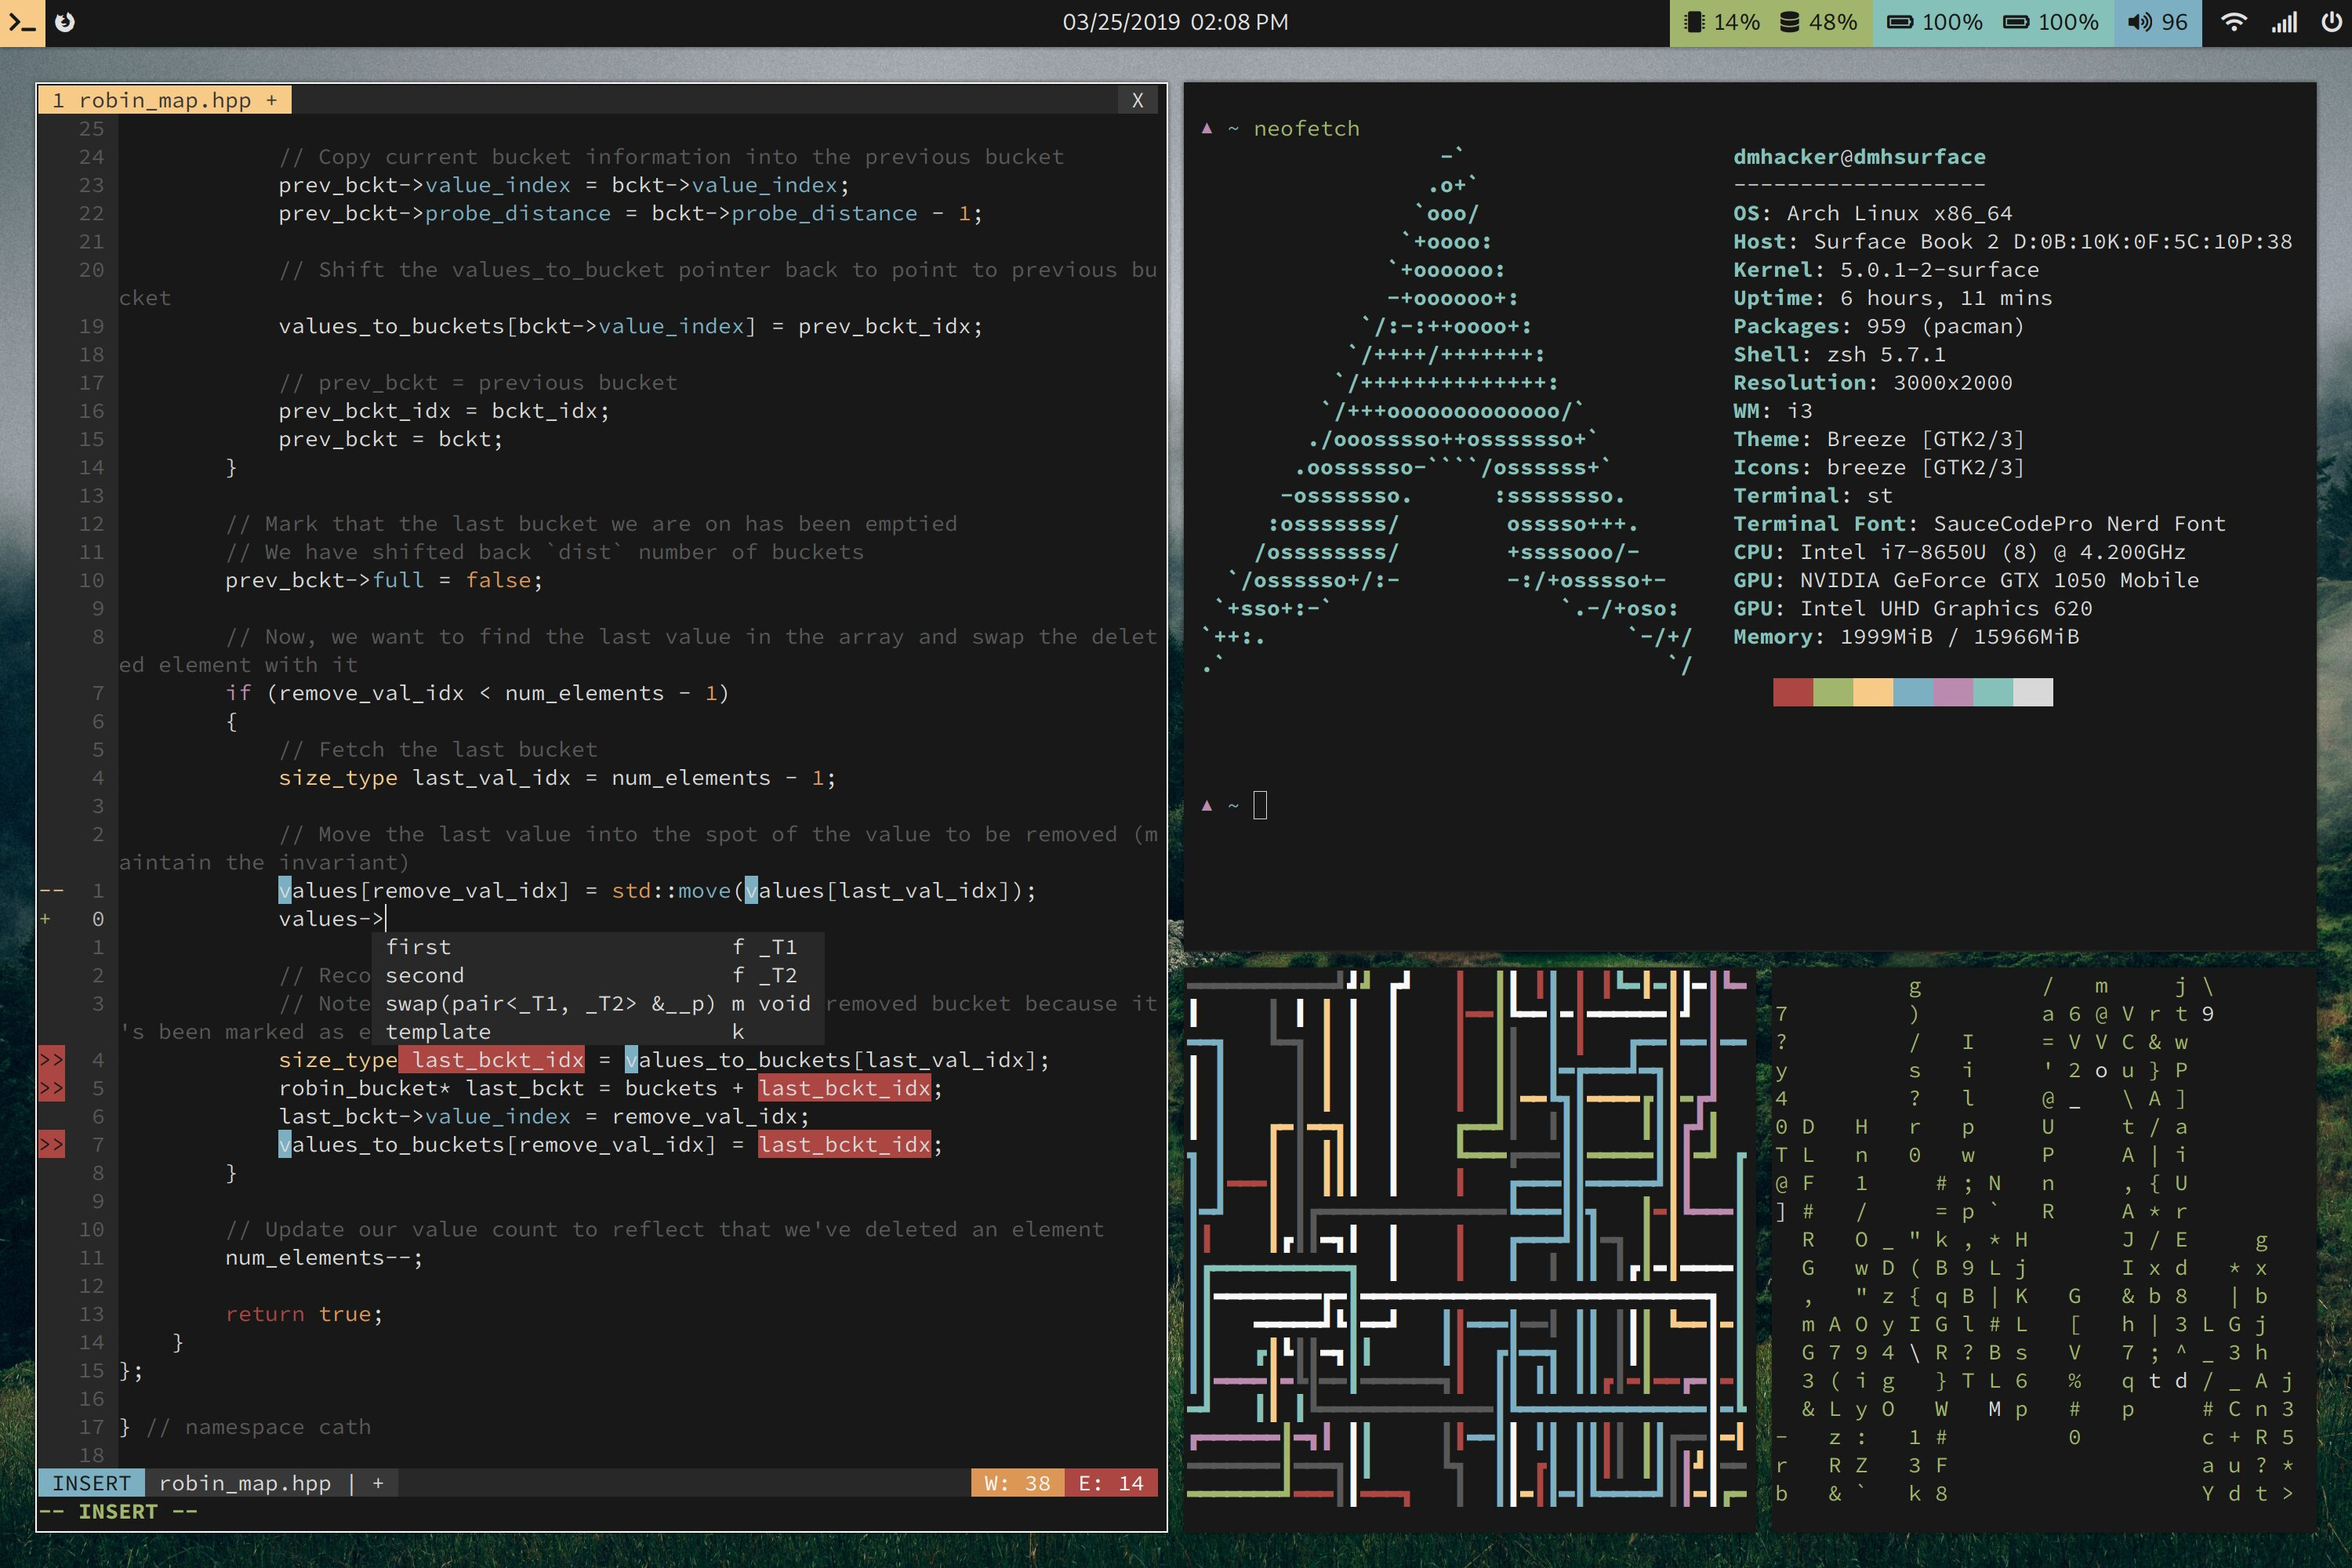
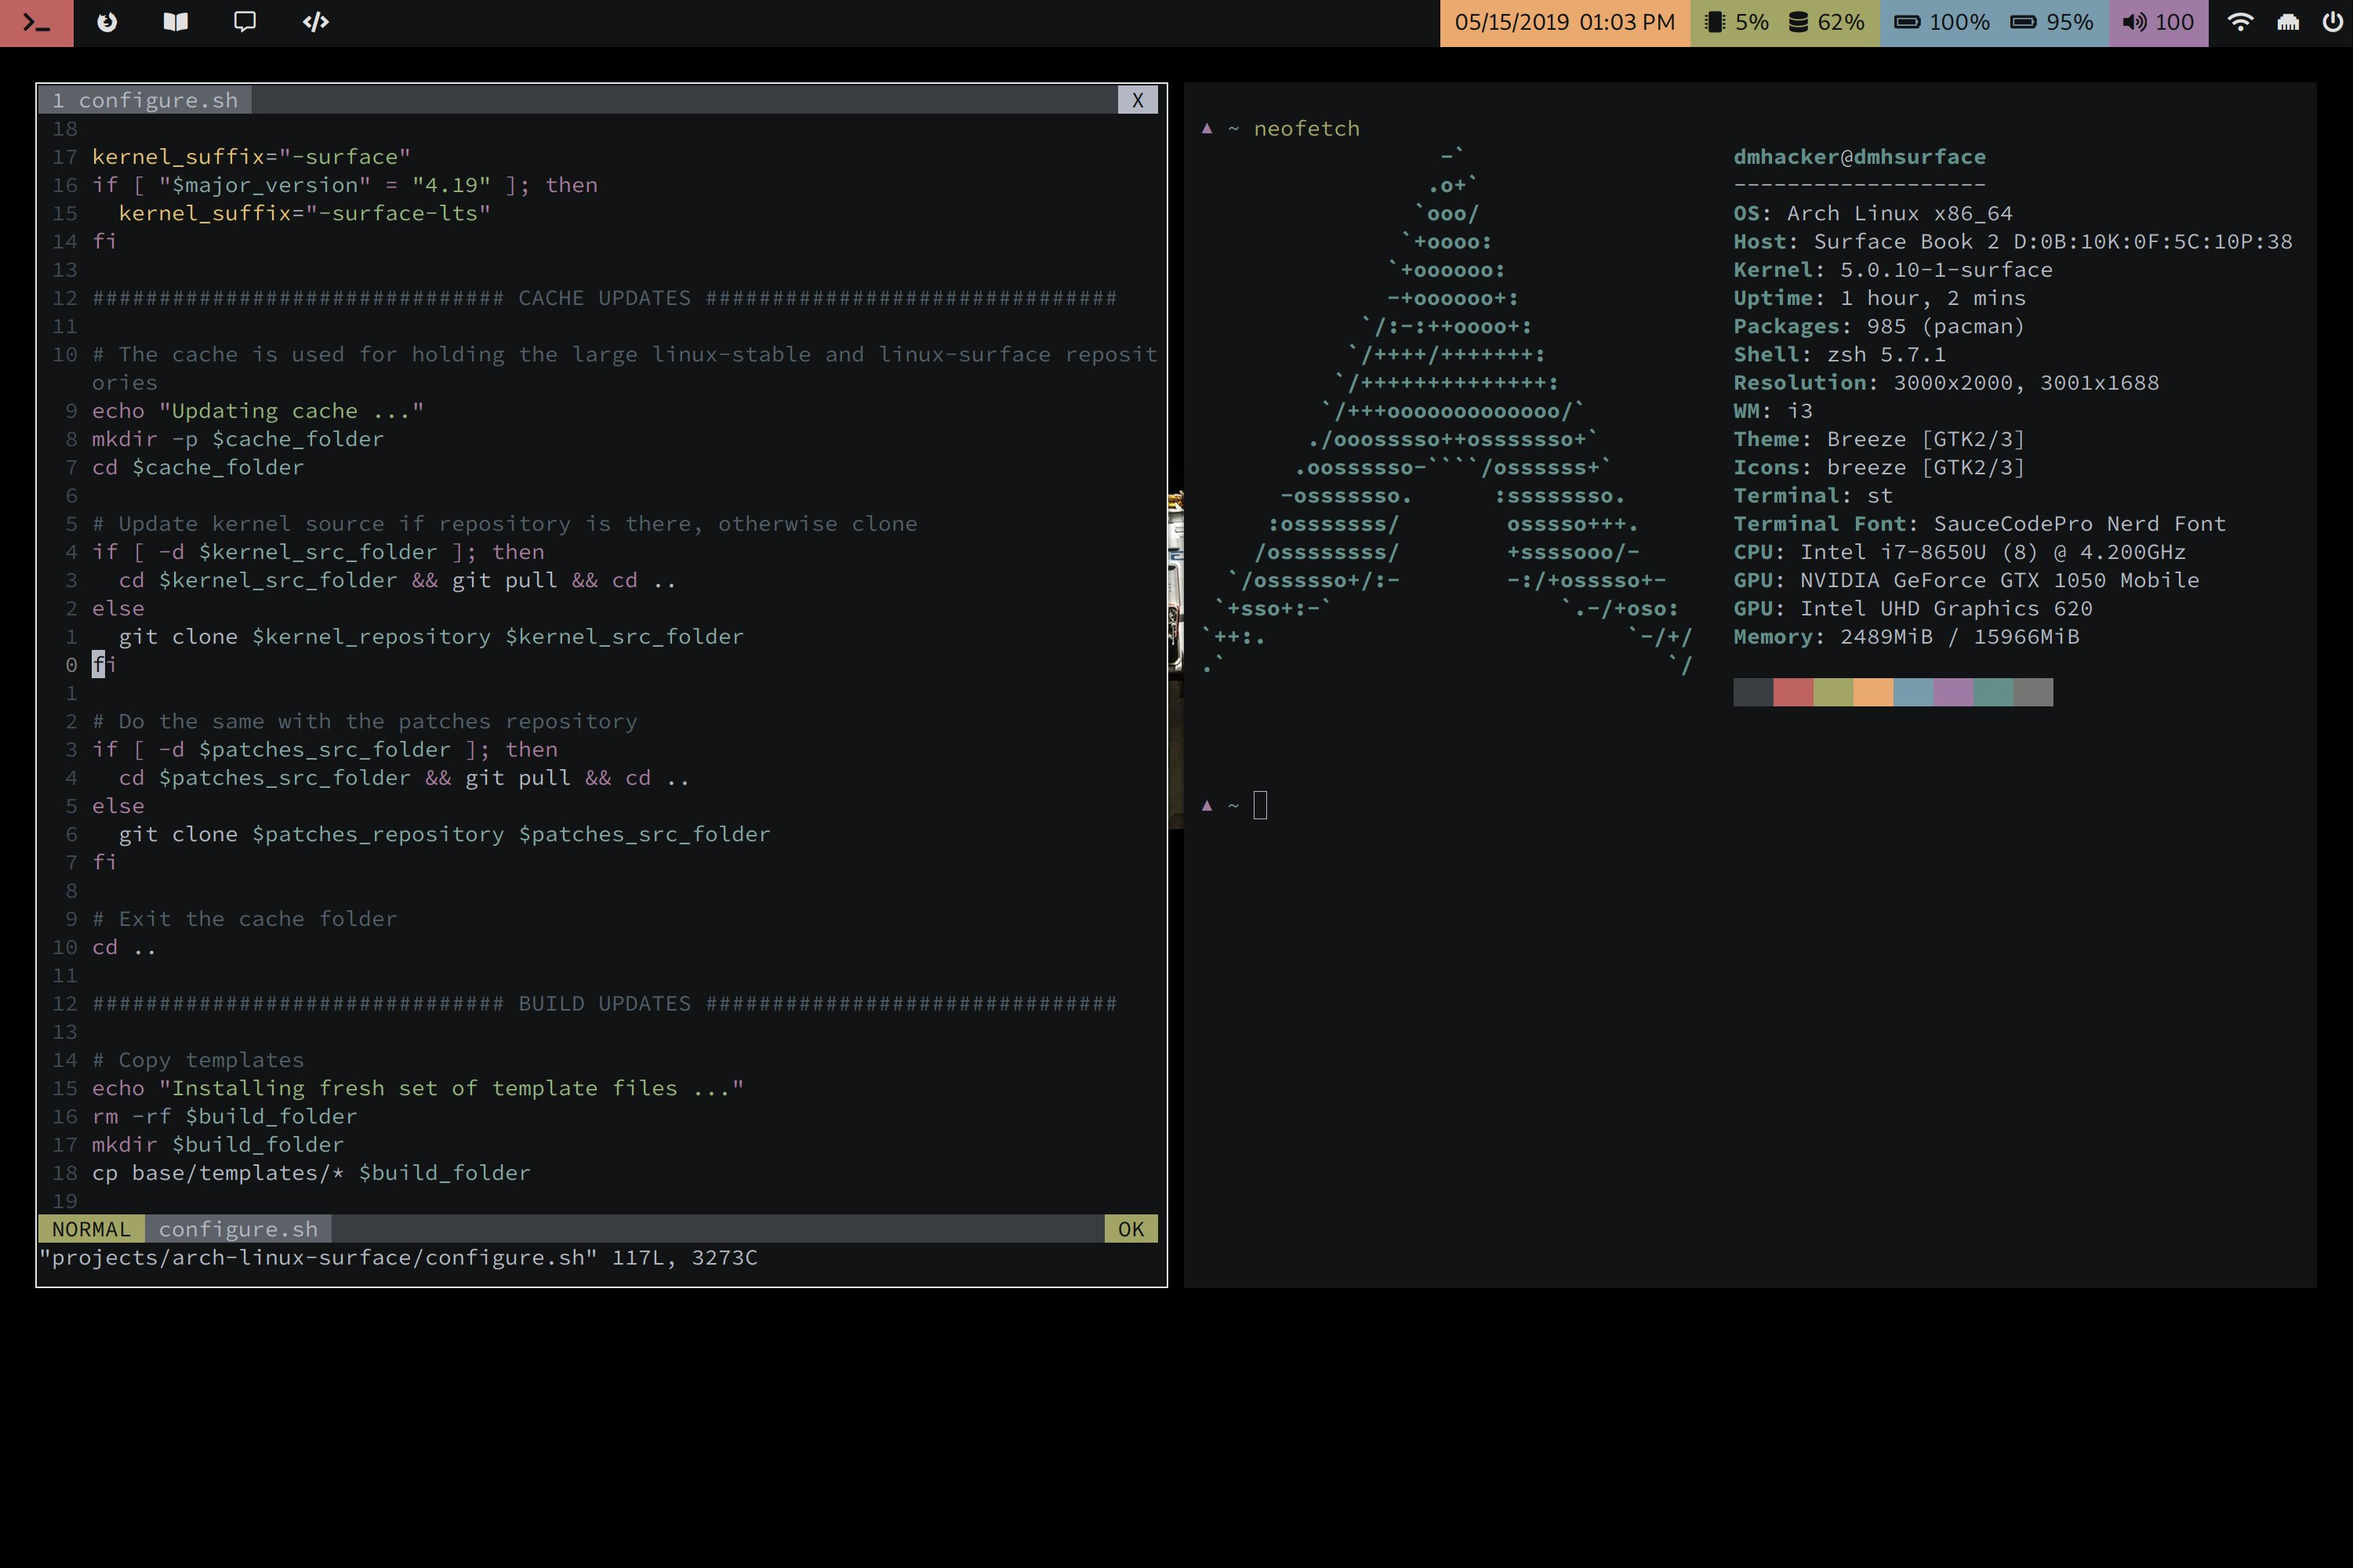
Switch to spacegray theme, update wallpaper

diff --git a/st/config.h b/st/config.h
@@ -86,28 +86,28 @@ unsigned int tabspaces = 8;
 static const char *colorname[] = {
 
   /* 8 normal colors */
-  [0] = "#181818", /* black   */
-  [1] = "#ab4642", /* red     */
-  [2] = "#a1b56c", /* green   */
-  [3] = "#f7ca88", /* yellow  */
-  [4] = "#7cafc2", /* blue    */
-  [5] = "#ba8baf", /* magenta */
-  [6] = "#86c1b9", /* cyan    */
-  [7] = "#d8d8d8", /* white   */
+  [0] = "#3a3e42", /* black   */
+  [1] = "#bf6262", /* red     */
+  [2] = "#a2a565", /* green   */
+  [3] = "#e9a96f", /* yellow  */
+  [4] = "#789bad", /* blue    */
+  [5] = "#9f7aa5", /* magenta */
+  [6] = "#638e8a", /* cyan    */
+  [7] = "#737673", /* white   */
 
   /* 8 bright colors */
-  [8]  = "#585858", /* black   */
-  [9]  = "#ab4642", /* red     */
-  [10] = "#a1b56c", /* green   */
-  [11] = "#f7ca88", /* yellow  */
-  [12] = "#7cafc2", /* blue    */
-  [13] = "#ba8baf", /* magenta */
-  [14] = "#86c1b9", /* cyan    */
-  [15] = "#f8f8f8", /* white   */
+  [8]  = "#5d6369", /* black   */
+  [9]  = "#bf6262", /* red     */
+  [10] = "#a5a76e", /* green   */
+  [11] = "#e9a96f", /* yellow  */
+  [12] = "#789bad", /* blue    */
+  [13] = "#9f7aa5", /* magenta */
+  [14] = "#638e8a", /* cyan    */
+  [15] = "#e3e8e3", /* white   */
 
   /* special colors */
-  [256] = "#181818", /* background */
-  [257] = "#d8d8d8", /* foreground */
+  [256] = "#111314", /* background */
+  [257] = "#b3b8c4", /* foreground */
 };
 
 /*
